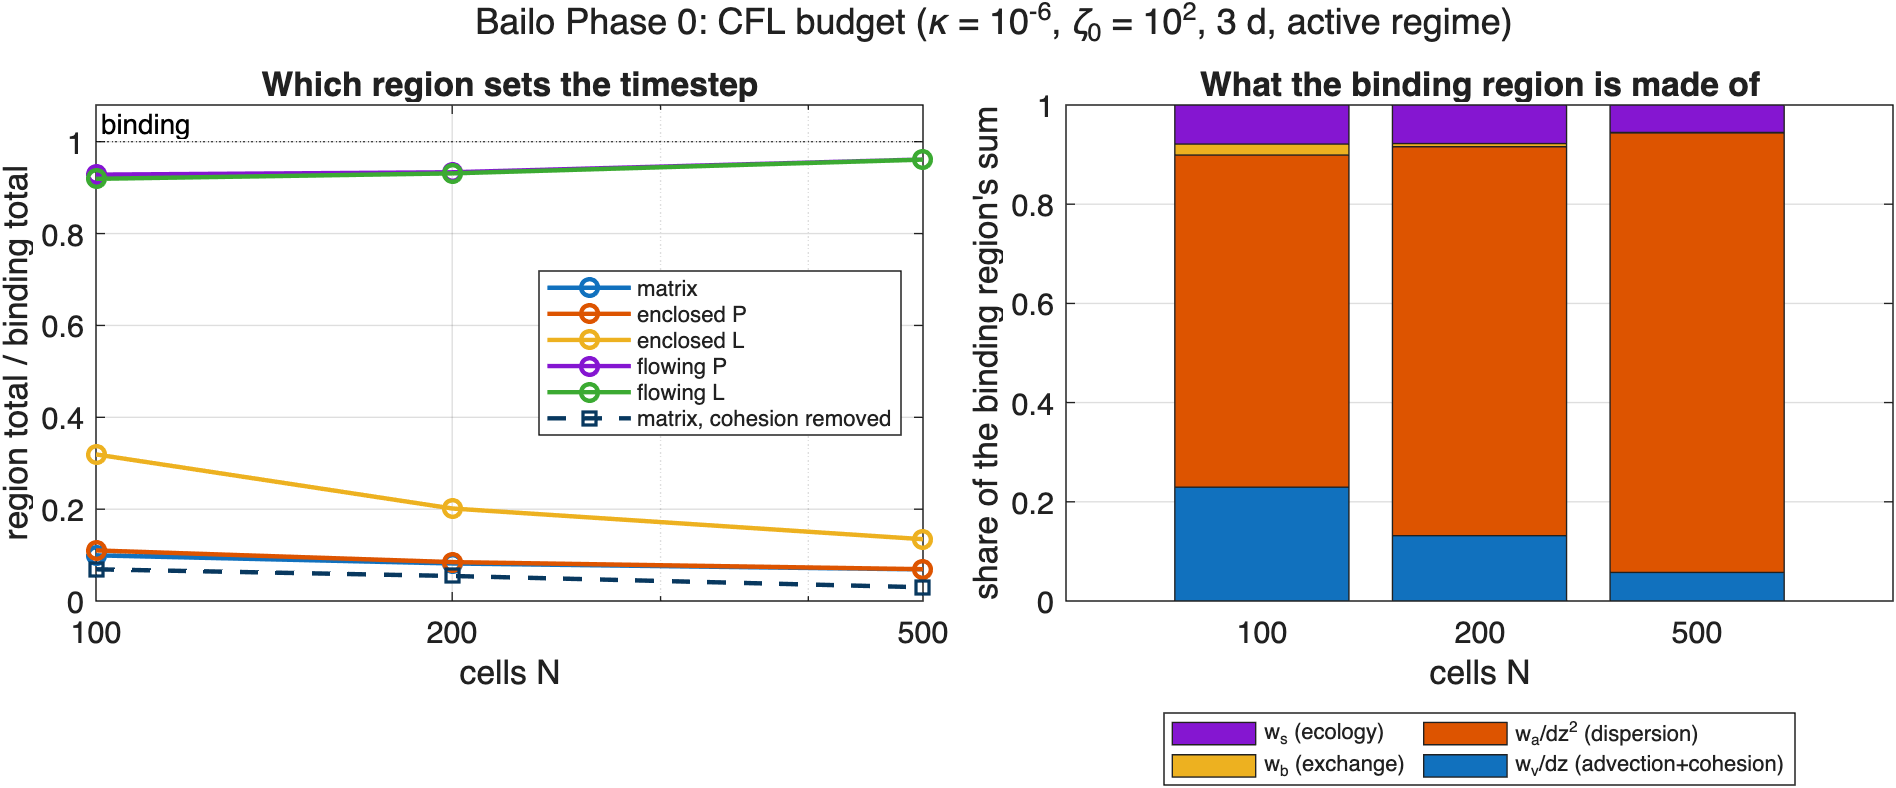
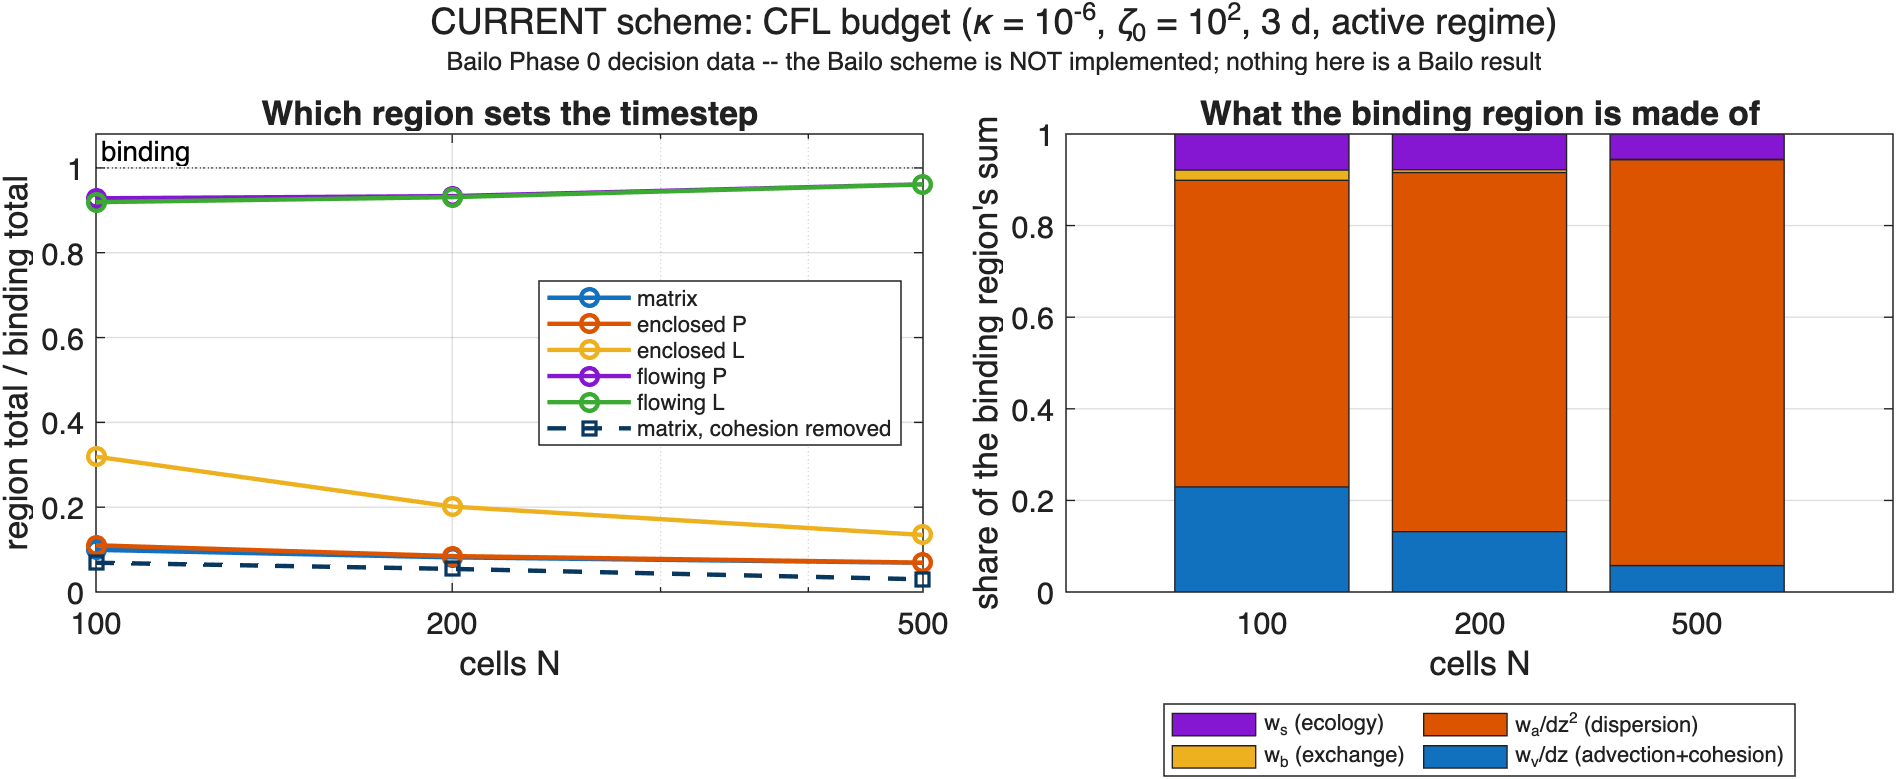
Say plainly that no Bailo results exist, and verify 0e has no step offset
Figure titles read "Bailo Phase 0", which invites reading them as Bailo results.
They are not: the scheme is unimplemented and every number measures the EXISTING
solver. Retitled, with a subtitle saying so on both CFL figures and a header note
in the decision file. Bailo results would be the Phase 1 gates; none have run.

Also pinned down what 0e actually compares. It is literally
|u^{n+1} - sum_i phi_i|, and both sides are at the SAME time level: globalBiofilm
is advanced to n+1 at simulate.m:605, the frame stores those concentrations at
:654, and uCHrec is written at :663 from :458 in the same iteration. Worth
checking -- a one-step offset would also scale as O(dt) and would have passed the
dt-refinement test while measuring nothing. It does not, so the 3.997 ratio
reflects a real splitting inconsistency that converges away.

diff --git a/analysis/plotKappaPhase0.m b/analysis/plotKappaPhase0.m
@@ -1,6 +1,13 @@
 function plotKappaPhase0(opts)
 % PLOTKAPPAPHASE0  Figures for the 2026-08-23 kappa fix and Bailo Phase 0.
 %
+% NOTE: none of these are Bailo results. The Bailo scheme is NOT implemented.
+% Every figure measures the EXISTING solver -- Phase 0 exists precisely to decide
+% whether building Bailo is justified, and on this evidence three of its four
+% justifications are dead. Bailo results would be the Phase 1 gates (mass,
+% bounds, monotone energy, second-order accuracy, and bounds holding at 100x the
+% explicit dt limit); none have been run.
+%
 %   plotKappaPhase0
 %
 % Produces, into analysis/results/figures/:
@@ -67,7 +74,9 @@ for j = 1:4, b(j).DisplayName = names(j); end
 xlabel("cells N"); ylabel("share of the binding region's sum");
 title("What the binding region is made of"); ylim([0 1]);
 legend(Location="southoutside", FontSize=8, NumColumns=2); grid on; box on
-title(tl, "Bailo Phase 0: CFL budget (\kappa = 10^{-6}, \zeta_0 = 10^2, 3 d, active regime)");
+title(tl, "CURRENT scheme: CFL budget (\kappa = 10^{-6}, \zeta_0 = 10^2, 3 d, active regime)");
+subtitle(tl, "Bailo Phase 0 decision data -- the Bailo scheme is NOT implemented; nothing here is a Bailo result", ...
+    FontSize=9, Interpreter="none");
 exportgraphics(f1, fullfile(opts.OutDir, "fig1_cfl_margins.png"), Resolution=200);
 
 % ======================= FIG 2: cohesion's role ==============================
@@ -93,7 +102,8 @@ plot(Ns, 100*capF, "-o", Color=[0.2 0.4 0.8]);
 set(gca, XScale="log"); xticks(Ns); xticklabels(string(Ns));
 xlabel("cells N"); ylabel("% of steps pinned to MaxDt");
 title("CFL only binds at fine meshes"); ylim([0 100]); grid on; box on
-title(tl, "Cohesion is dominant in v_b yet irrelevant to dt");
+title(tl, "Current scheme: cohesion is dominant in v_b yet irrelevant to dt");
+subtitle(tl, "measured on the EXISTING solver; Bailo is unimplemented", FontSize=9, Interpreter="none");
 exportgraphics(f2, fullfile(opts.OutDir, "fig2_cohesion_role.png"), Resolution=200);
 
 % ===================== FIG 3: 0e first-order dt scaling ======================

diff --git a/.claude/decisions/2026-08-23-bailo-phase0.md b/.claude/decisions/2026-08-23-bailo-phase0.md
@@ -1,5 +1,10 @@
 # Bailo Phase 0 — is the scheme worth building?
 
+**Nothing of the Bailo scheme is implemented.** Every number below measures the EXISTING
+solver. Phase 0 exists to decide whether building Bailo is justified; Bailo results would be
+the Phase 1 gates (mass, bounds, monotone energy, second-order accuracy, bounds holding at
+100x the explicit dt limit) and none have been run.
+
 Status: **in progress.** 0d complete; 0a–0c (job 3531534) and 0e (job 3531536) running.
 Plan: `.claude/plans/2026-08-23-bailo-scheme.md`. Probe: `analysis/probes/probeCflBudget.m`.
 
@@ -47,6 +52,32 @@ empirical support. Bailo must now be justified either by 0c (a real speed case) 
 structural component-elimination design, whose own precondition is 0e.
 
 ## 0a–0c, 0e — pending
+
+### 0e — the two routes to phi_b differ by O(dt) only
+
+Measured quantity is literally `|u^{n+1} - sum_i phi_i|`: `uCHrec = xCH(1:n0)` is Solver A's
+own phi_b (the vector the solver normally discards), against `biofilmFractionLocal` =
+`W_enc/rho_L + sum_particles (X_mat + X_enc)/rho_P + sum_liquids S_enc/rho_L` on cells 1..n0.
+
+**Both are sampled at the same time level.** Verified in the loop, not assumed:
+`globalBiofilm` is advanced to n+1 at `simulate.m:605`; the frame writes those same
+concentrations at `:654`; `uCHrec` is written at `:663` from `:458` in the same iteration.
+This mattered — a one-step offset would produce O(dt) drift too, and would have passed the
+scaling test below while measuring nothing.
+
+| MaxDt | max abs diff |
+|---|---|
+| 3e-6 | 2.7281e-05 |
+| 7.5e-7 | 6.8254e-06 |
+
+Ratio **3.997** against a dt ratio of 4: first order, so a genuine operator-splitting
+inconsistency that converges away, not a structural difference. The two routes are the same
+equation, and the component-elimination design is well posed.
+
+Note the probe's original fixed 1e-6 threshold was the wrong test and has been removed: an
+O(dt) mismatch is expected at any finite dt, so the scaling is the criterion.
+
+### 0a–0c
 
 Jobs 3531534 (N=100, N=500) and 3531536 (0e, N=100), all κ=1e-6, matured 3 d so the
 supernatant carries biofilm. A clean start makes 0c and 0e null tests: at 0.3 d
